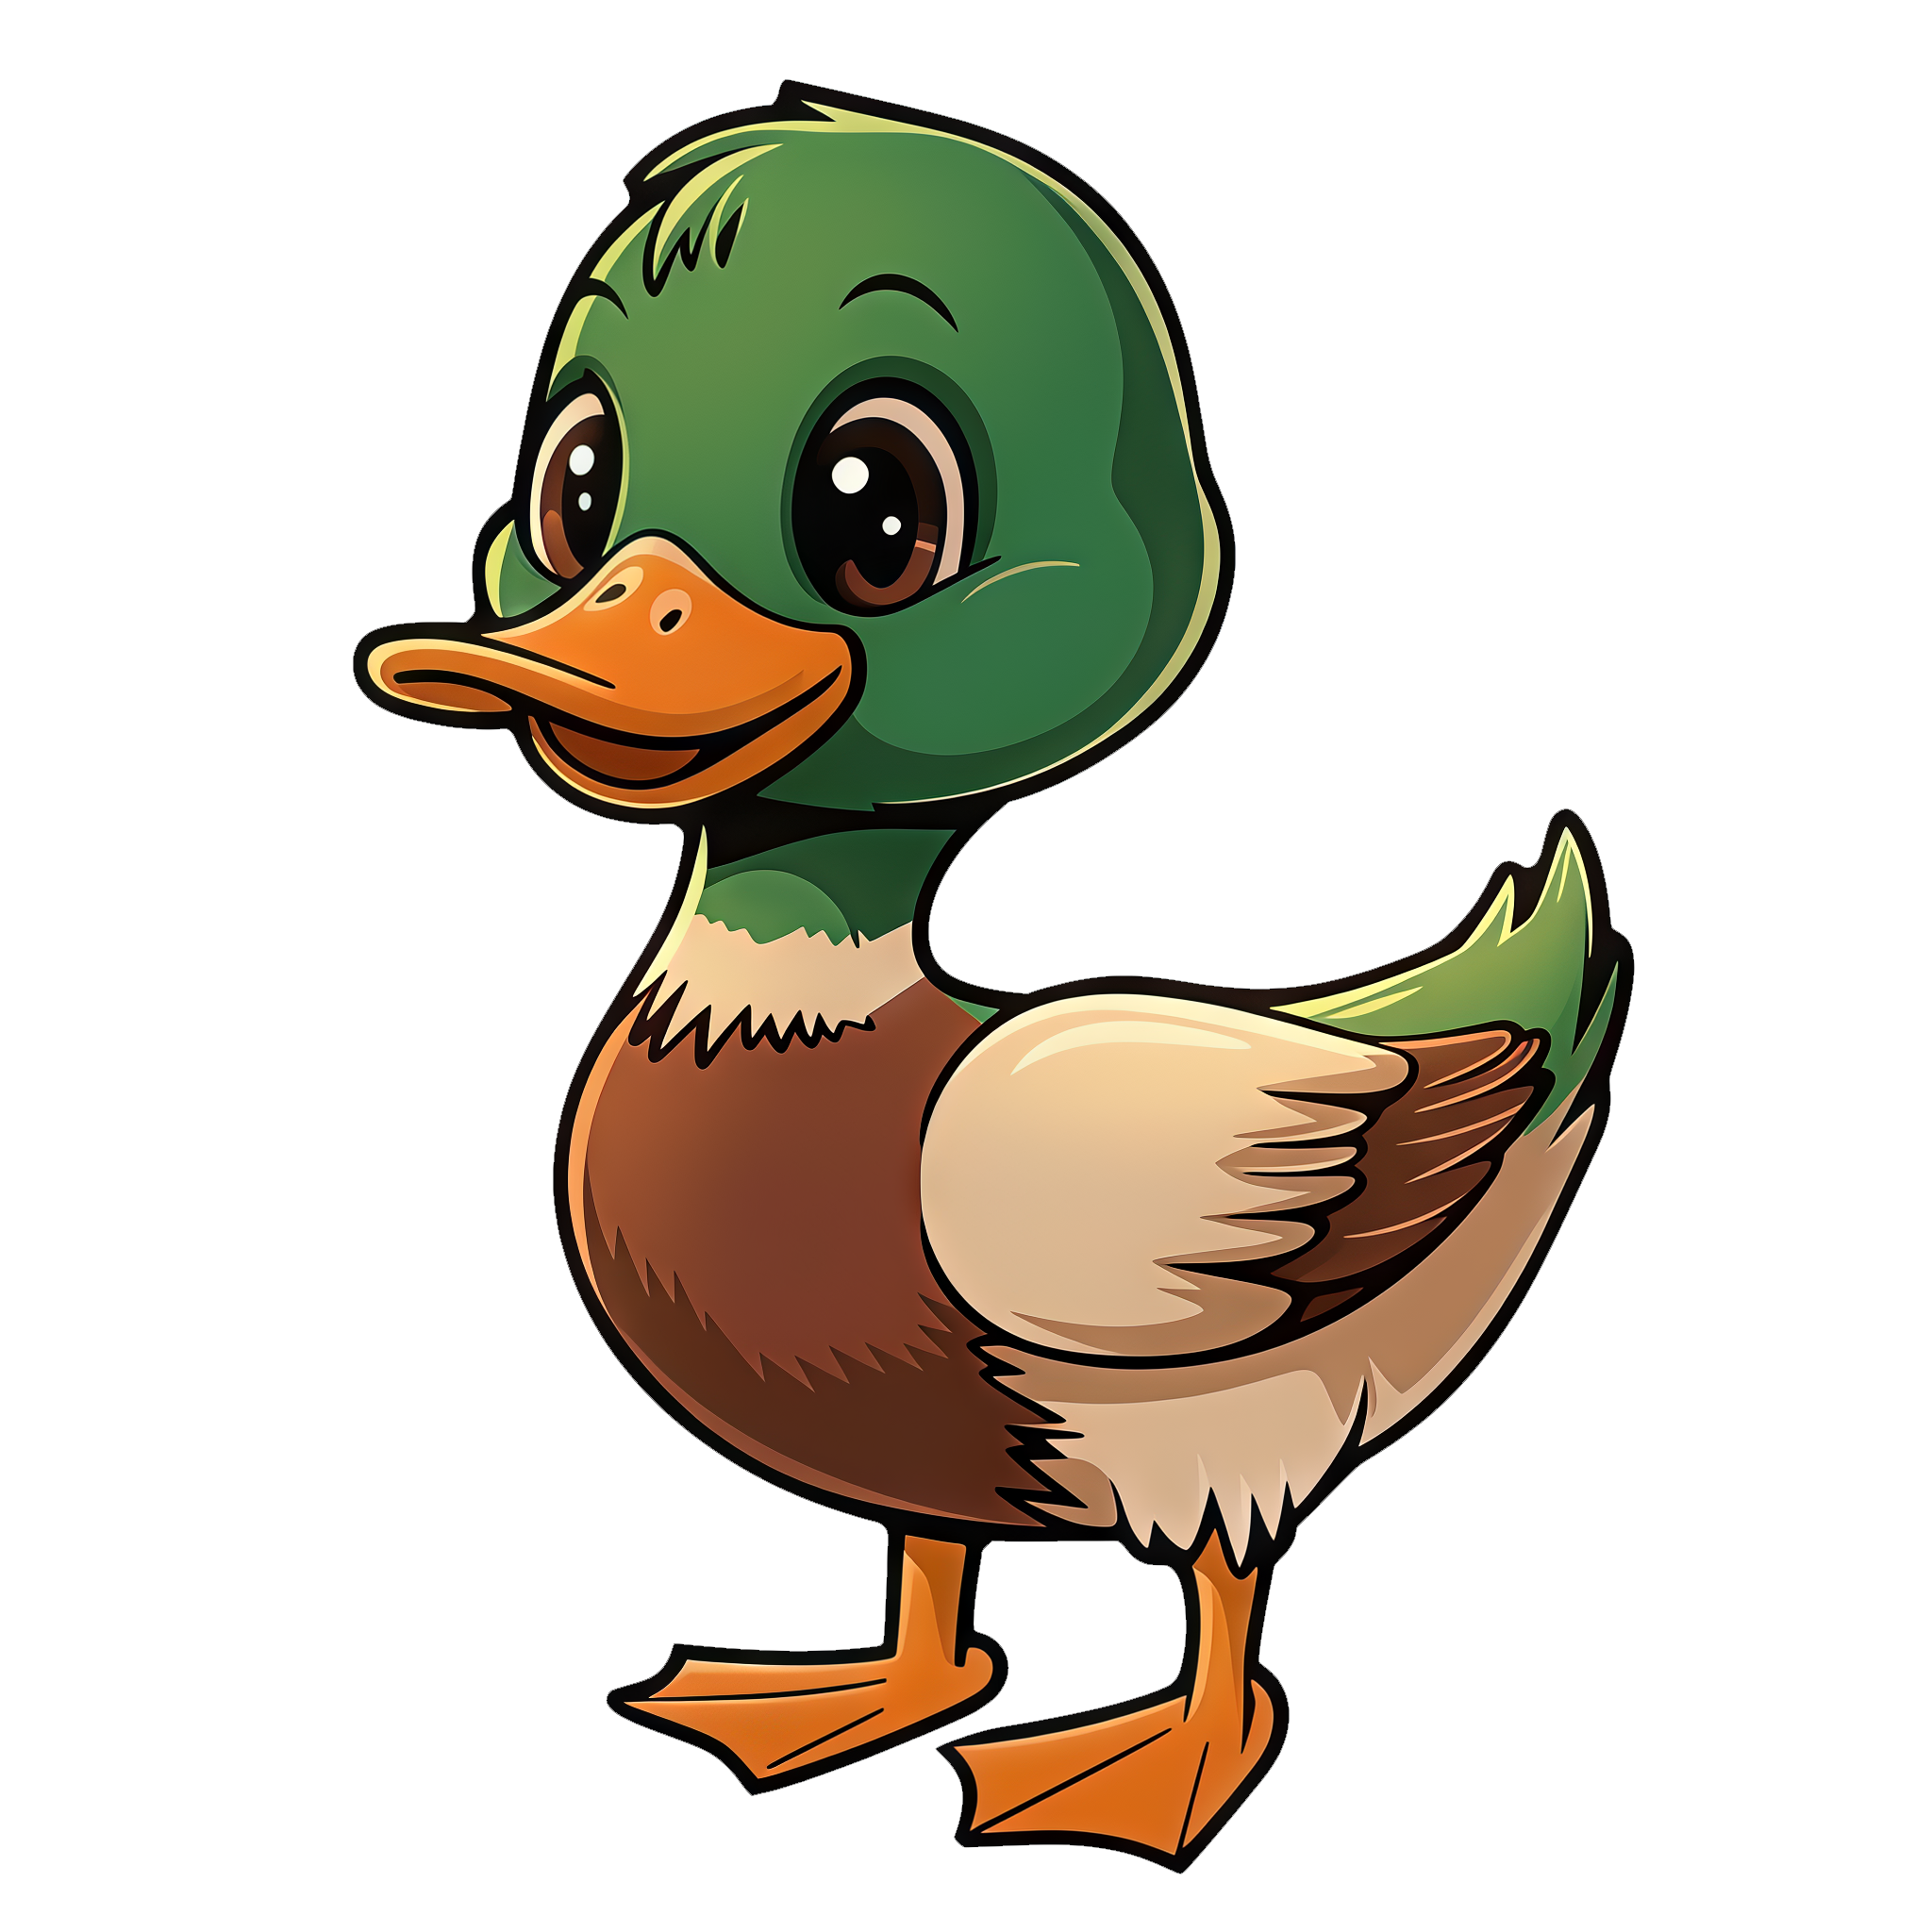
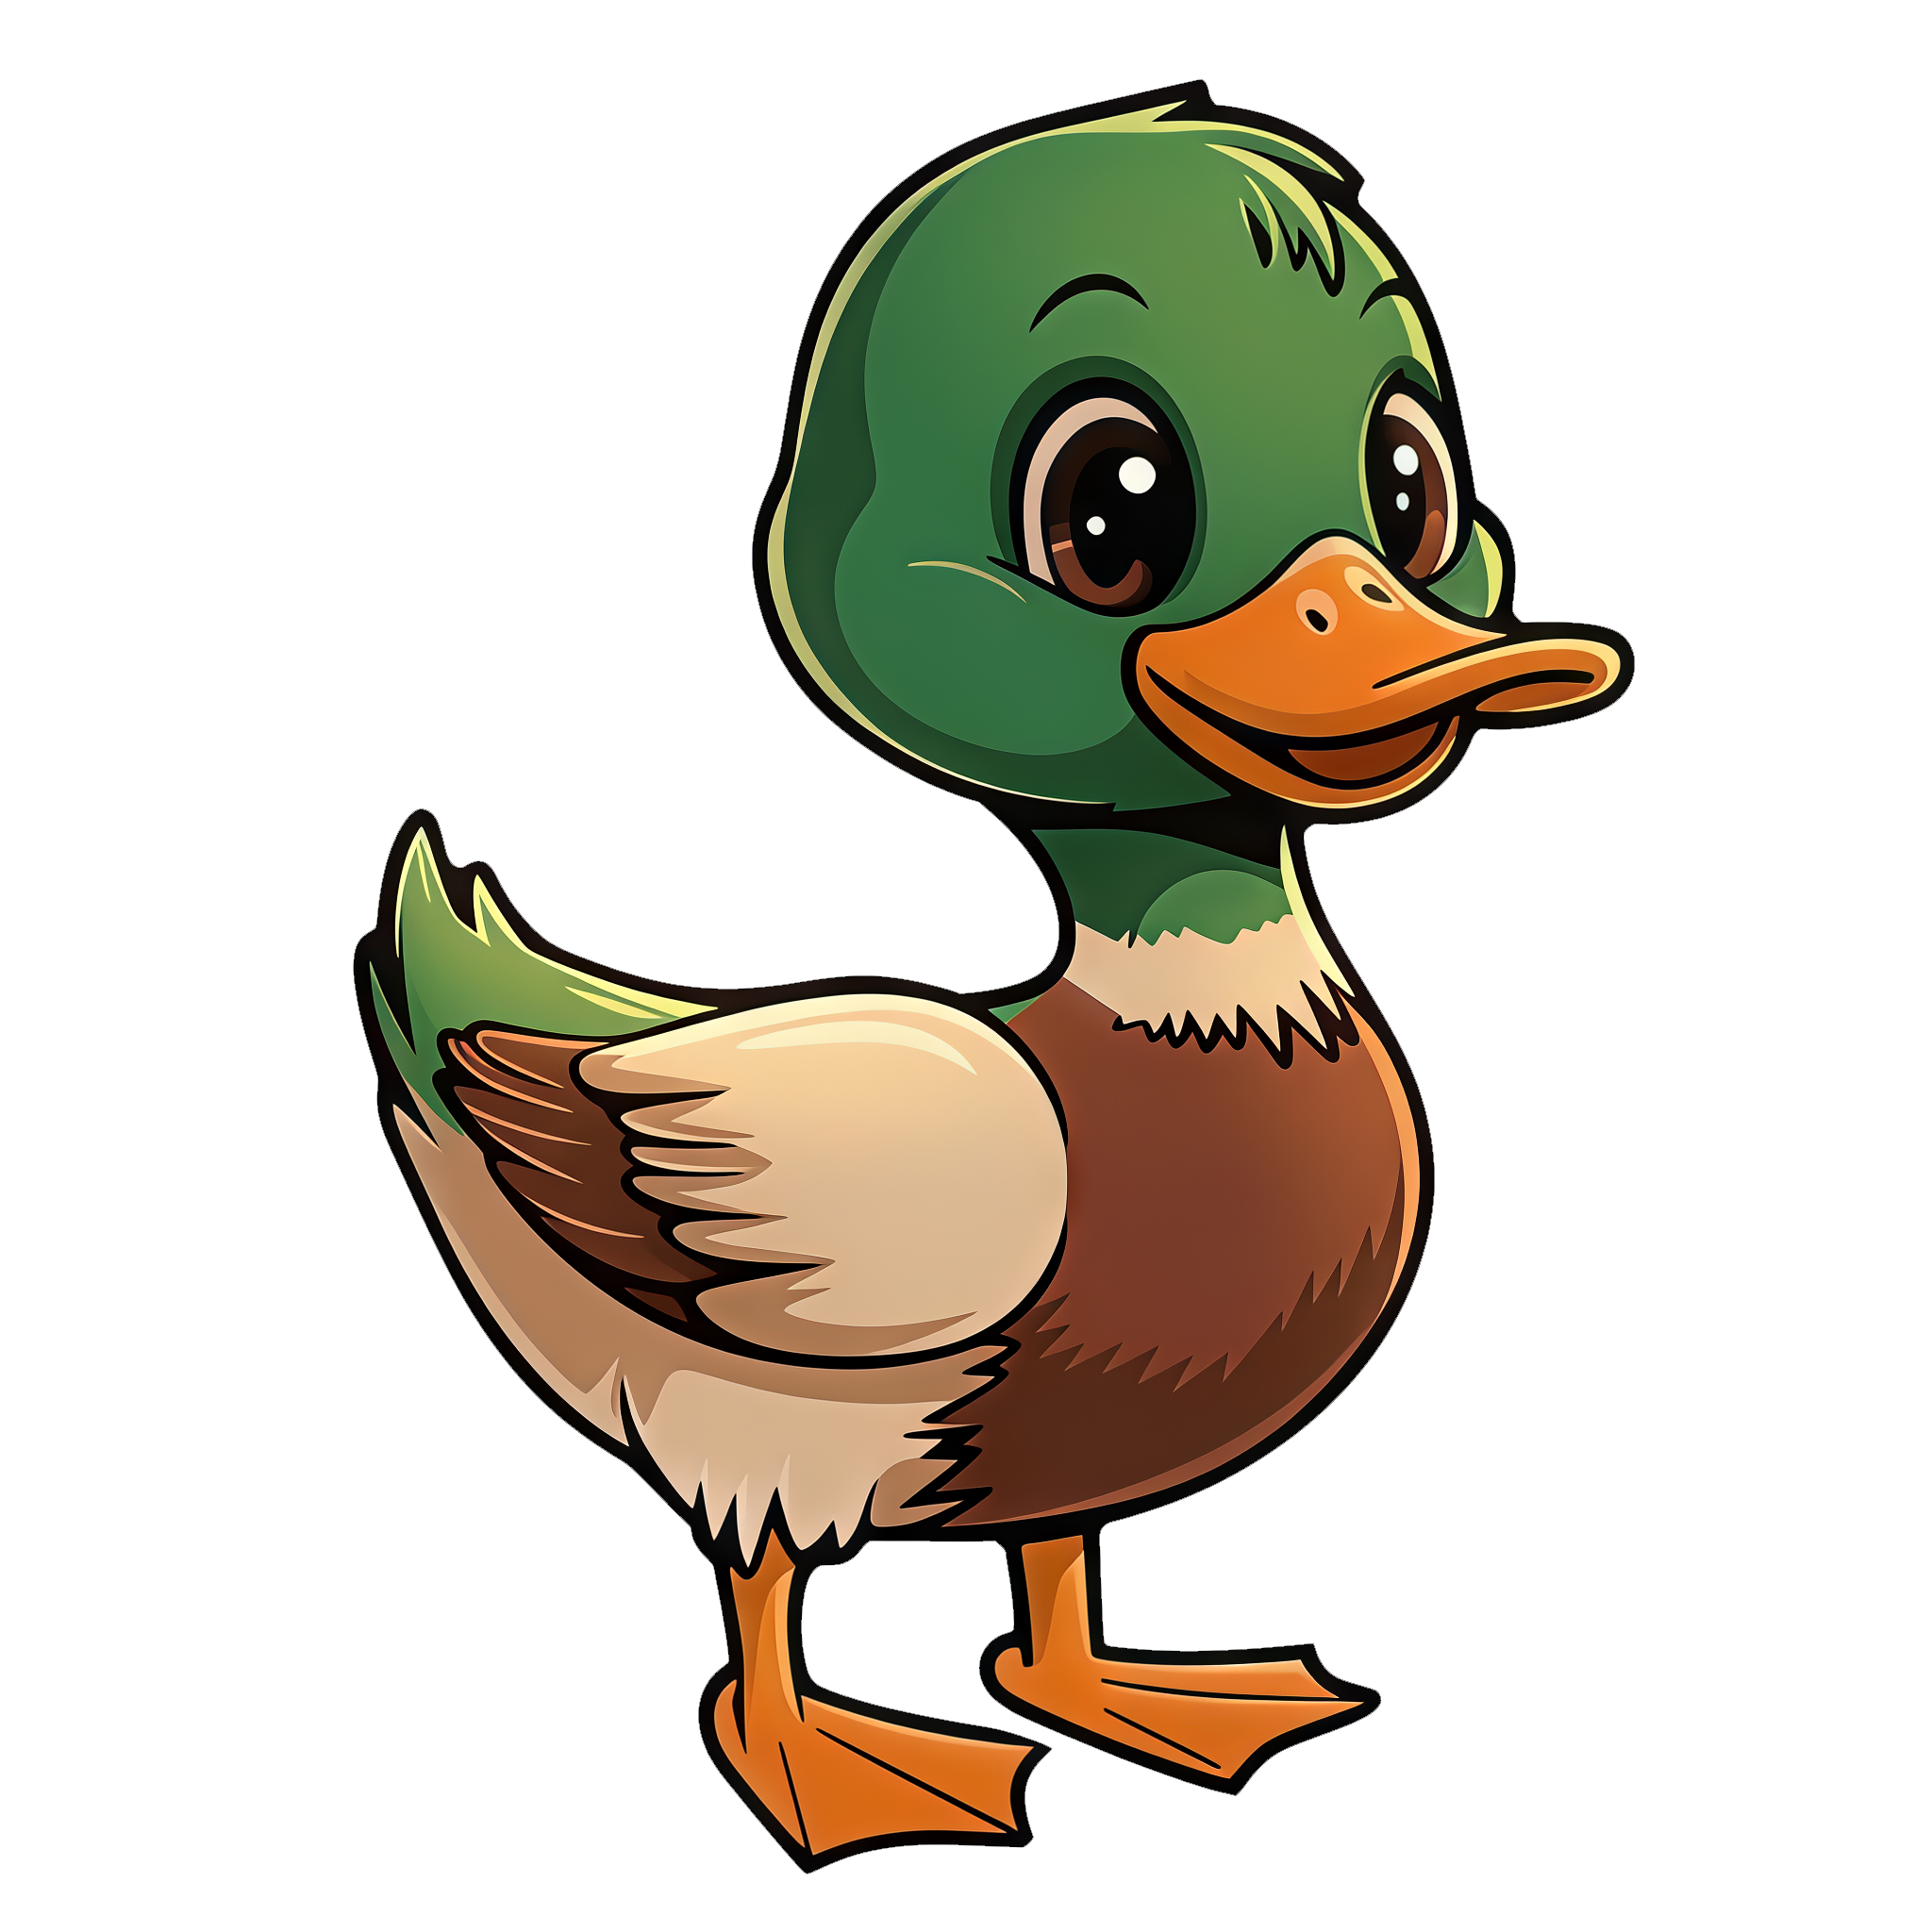
goldfish

diff --git a/zone_config.py b/zone_config.py
@@ -1,46 +1,148 @@
 # ─────────────────────────────────────────────
 # zone_config.py
-# Pool-uri de specii si naturi per zona.
-# Editeaza DOAR acest fisier pentru a modifica ce apare in fiecare zona.
+# Pool-uri de specii si naturi per zona, cu sistem de raritate.
+# Editeaza DOAR acest fisier.
 # ─────────────────────────────────────────────
+#
+# RARITATE — sanse de aparitie:
+#   common:    60%
+#   uncommon:  25%
+#   rare:      10%
+#   epic:       4%
+#   legendary:  1%
+#
+# Format entry: ('cheie', 'raritate')
+# ─────────────────────────────────────────────
+
+RARITY_WEIGHTS = {
+    'common':    60,
+    'uncommon':  25,
+    'rare':      10,
+    'epic':       4,
+    'legendary':  1,
+}
 
 ZONE_POOLS = {
 
     'arena': {
-        'species': ['dog', 'cat', 'blackcat', 'duck', 'fox', 'rhino'],
-        'natures': ['fire', 'water', 'nature', 'earth', 'storm', 'ice',
-                    'shadow', 'crystal', 'steel', 'light', 'dragon'],
+        'species': [
+            ('dog',      'common'),
+            ('cat',      'common'),
+            ('duck',     'common'),
+            ('blackcat', 'uncommon'),
+            ('fox',      'rare'),
+            ('rhino',    'epic'),
+        ],
+        'natures': [
+            ('nature',  'common'),
+            ('water',   'common'),
+            ('earth',   'common'),
+            ('fire',    'uncommon'),
+            ('storm',   'uncommon'),
+            ('ice',     'rare'),
+            ('steel',   'rare'),
+            ('light',   'epic'),
+            ('shadow',  'epic'),
+            ('crystal', 'epic'),
+            ('dragon',  'legendary'),
+        ],
     },
 
     'vanatoare': {
-        'species': ['cat', 'duck', 'fox'],
-        'natures': ['nature', 'water', 'earth', 'storm', 'ice'],
+        'species': [
+            ('cat',  'common'),
+            ('duck', 'common'),
+            ('fox',  'uncommon'),
+        ],
+        'natures': [
+            ('nature', 'common'),
+            ('water',  'common'),
+            ('earth',  'common'),
+            ('storm',  'uncommon'),
+            ('ice',    'rare'),
+        ],
     },
 
     'padure': {
-        'species': ['cat', 'duck'],
-        'natures': ['nature', 'water', 'earth'],
+        'species': [
+            ('cat',  'common'),
+            ('duck', 'common'),
+        ],
+        'natures': [
+            ('nature', 'common'),
+            ('water',  'common'),
+            ('earth',  'uncommon'),
+        ],
     },
 
     'paduremid': {
-        'species': ['cat', 'duck', 'fox'],
-        'natures': ['nature', 'water', 'earth', 'storm'],
+        'species': [
+            ('cat',  'common'),
+            ('duck', 'common'),
+            ('fox',  'uncommon'),
+        ],
+        'natures': [
+            ('nature', 'common'),
+            ('water',  'common'),
+            ('earth',  'common'),
+            ('storm',  'uncommon'),
+        ],
     },
 
     'paduredeep': {
-        'species': ['cat', 'duck', 'fox', 'blackcat'],
-        'natures': ['nature', 'water', 'earth', 'storm', 'shadow', 'ice'],
+        'species': [
+            ('cat',      'common'),
+            ('duck',     'common'),
+            ('fox',      'uncommon'),
+            ('blackcat', 'rare'),
+        ],
+        'natures': [
+            ('nature', 'common'),
+            ('water',  'common'),
+            ('earth',  'common'),
+            ('storm',  'uncommon'),
+            ('ice',    'rare'),
+            ('shadow', 'epic'),
+        ],
     },
 
 }
 
 # Fallback daca zona nu e definita
 DEFAULT_POOL = {
-    'species': ['dog', 'cat', 'blackcat', 'duck', 'fox', 'rhino'],
-    'natures': ['fire', 'water', 'nature', 'earth', 'storm', 'ice',
-                'shadow', 'crystal', 'steel', 'light', 'dragon'],
+    'species': [
+        ('dog',      'common'),
+        ('cat',      'common'),
+        ('duck',     'common'),
+        ('blackcat', 'uncommon'),
+        ('fox',      'rare'),
+        ('rhino',    'epic'),
+    ],
+    'natures': [
+        ('nature',  'common'),
+        ('water',   'common'),
+        ('earth',   'common'),
+        ('fire',    'uncommon'),
+        ('storm',   'uncommon'),
+        ('ice',     'rare'),
+        ('steel',   'rare'),
+        ('light',   'epic'),
+        ('shadow',  'epic'),
+        ('crystal', 'epic'),
+        ('dragon',  'legendary'),
+    ],
 }
 
 
 def get_zone_pool(zone: str) -> dict:
     return ZONE_POOLS.get(zone, DEFAULT_POOL)
+
+
+def weighted_choice(entries: list) -> str:
+    """
+    Alege random dintr-o lista de (cheie, raritate) folosind RARITY_WEIGHTS.
+    """
+    import random
+    keys    = [e[0] for e in entries]
+    weights = [RARITY_WEIGHTS.get(e[1], 60) for e in entries]
+    return random.choices(keys, weights=weights, k=1)[0]

diff --git a/cogs/petgame_config.py b/cogs/petgame_config.py
@@ -466,4 +466,31 @@ SPECIES = {
             },
         },
     },
+
+    'goldfish': {
+        'starter': False,
+        'name': 'Peștișor', 'emoji': '🐟', 'button_label': '🐟 Peștișor',
+        'codes': {1: 'GOLD-001', 2: 'GOLD-002', 3: 'GOLD-003'},
+        'available_natures': ['water', 'dragon'],
+        'entries': {
+            1: {
+                'code': 'GOLD-001',
+                'name': 'Aurel',
+                'description': 'Un peștișor auriu nevinovat, înoată fericit în bolul său. Nimeni nu bănuiește ce putere doarme în el.',
+                'lore': 'Aurel este o enigmă printre companioni. La prima vedere e un simplu peștișor auriu — ochii mari, înotătoare delicate, mișcări line ca apa liniștită.\n\nSe spune că peștișorii de aur sunt urmașii dragonilor marini primordiali care au ales să se retragă în adâncuri, luând forma cea mai mică și umilă pentru a nu fi vânați.\n\nCei care îl aleg ca starter sunt considerați fie nebuni, fie înzestrați cu o intuiție ieșită din comun. Aurel nu impresionează — deocamdată.',
+            },
+            2: {
+                'code': 'GOLD-002',
+                'name': 'Koishar',
+                'description': 'Transformarea a început. Solzii aurului s-au întărit, înotătoarele s-au extins, iar în ochi arde o flacără albastră.',
+                'lore': 'Koishar marchează trezirea — momentul în care peștișorul banal începe să-și amintească ce a fost cândva.\n\nSolzii săi reflectă lumina în pattern-uri care seamănă cu scrierile dragonice vechi. Magicienii curții au confirmat că aceste pattern-uri nu sunt decorative — sunt rune vii.\n\nKoishar poate supraviețui în afara apei pentru perioade scurte, iar valurile de energie pe care le emite pot fi simțite de companioanele din jur. Este asexuat — forma sa transcende orice categorie.',
+            },
+            3: {
+                'code': 'GOLD-003',
+                'name': 'Dracaurul',
+                'description': 'Transformarea completă. Dragonul marin primordial s-a trezit — solzi de aur și abis, puterea apei și a dragonului unite.',
+                'lore': 'Dracaurul este una dintre cele mai rare și mai temute creaturi din Regnum Dacorum. Forma sa finală combină grația peștilor cu devastarea dragonilor marini.\n\nSe spune că apariția unui Dracaurul anunță fie o mare furtună pe mare, fie nașterea unui nou erou în regat. Nu există cale de mijloc.\n\nZamolxe ar fi spus că Dracaurul nu aparține nici lumii de sus, nici celei de jos — el este puntea dintre Apă și Dragon, dintre origine și destin. Cei care îl dețin poartă o responsabilitate pe care puțini o înțeleg.',
+            },
+        },
+    },
 }

diff --git a/modules/battle.py b/modules/battle.py
@@ -15,27 +15,28 @@ from moves_config import get_moveset, get_move
 # GENERARE NPC INAMIC
 # ─────────────────────────────────────────────
 
-SPECIES_LIST   = ['dog', 'cat', 'blackcat', 'duck', 'fox', 'rhino']
+SPECIES_LIST   = ['dog', 'cat', 'blackcat', 'duck', 'fox', 'rhino', 'goldfish']
 NATURES_LIST   = ['fire', 'water', 'nature', 'earth', 'storm', 'ice', 'shadow', 'crystal', 'steel', 'light', 'dragon']
-SPECIES_NAMES  = {'dog': 'Câine', 'cat': 'Pisică', 'blackcat': 'Pisică Neagră', 'duck': 'Rață', 'fox': 'Vulpe', 'rhino': 'Rinocer'}
+SPECIES_NAMES  = {'dog': 'Câine', 'cat': 'Pisică', 'blackcat': 'Pisică Neagră', 'duck': 'Rață', 'fox': 'Vulpe', 'rhino': 'Rinocer', 'goldfish': 'Peștișor'}
 from npc_names_config import get_npc_name
 
 
 def generate_npc(player_level: int, zone: str = 'arena') -> dict:
     """Genereaza un NPC random cu nivel apropriat (+-3 fata de player), filtrat dupa zona."""
     from cogs.petgame_config import SPECIES as SPECIES_CONFIG
-    from zone_config import get_zone_pool
+    from zone_config import get_zone_pool, weighted_choice
 
     pool    = get_zone_pool(zone)
-    species_pool = pool['species']
-    natures_pool = pool['natures']
+    species = weighted_choice(pool['species'])
+
+    # Intersecteaza available_natures ale speciei cu naturile din pool
+    available_natures = SPECIES_CONFIG.get(species, {}).get('available_natures', [e[0] for e in pool['natures']])
+    pool_natures = [(key, rar) for key, rar in pool['natures'] if key in available_natures]
+    if not pool_natures:
+        pool_natures = pool['natures']
+    nature = weighted_choice(pool_natures)
 
     level   = max(1, player_level + random.randint(-3, 3))
-    species = random.choice(species_pool)
-    # Intersecteaza available_natures ale speciei cu pool-ul zonei
-    available = SPECIES_CONFIG.get(species, {}).get('available_natures', natures_pool)
-    available = [n for n in available if n in natures_pool] or natures_pool
-    nature  = random.choice(available)
     form    = get_form(level)
     stats   = get_stats_at_level(species, nature, level, form)
     moveset = get_moveset(species, nature, level)

diff --git a/cogs/petgame_stats.py b/cogs/petgame_stats.py
@@ -77,6 +77,16 @@ BASE_STATS: dict[str, dict[str, int]] = {
         'control':  30,
         'reflection': 20,
     },
+    'goldfish': {
+        'hp':       40,
+        'attack':   55,
+        'defense':  40,
+        'speed':    75,
+        'evasion':  55,
+        'healing':  35,
+        'control':  45,
+        'reflection': 30,
+    },
 }
 
 
@@ -145,6 +155,16 @@ STAT_GROWTH: dict[str, dict[str, float]] = {
         'healing':    0.5,
         'control':    0.7,
         'reflection': 0.4,
+    },
+    'goldfish': {
+        'hp':         2.0,
+        'attack':     1.8,
+        'defense':    1.0,
+        'speed':      1.8,
+        'evasion':    1.2,
+        'healing':    0.8,
+        'control':    1.0,
+        'reflection': 0.8,
     },
 }
 

diff --git a/modules/pets.py b/modules/pets.py
@@ -52,6 +52,8 @@ def get_image_url(species: str, form: int, state: str, gender: str = 'male') -> 
     base = f"{STATIC_BASE}/00transparent/{species}"
     if species in ('duck', 'fox', 'rhino') and form == 1:
         return f"{base}/Stage{form}-{state}-Form.png"
+    if species == 'goldfish':
+        return f"{base}/Stage{form}-{state}-Form.png"
     if species in ('blackcat', 'dog', 'duck', 'fox', 'rhino'):
         gender_suffix = 'Male' if gender == 'male' else 'Female'
         return f"{base}/Stage{form}-{state}-Form-{gender_suffix}.png"

diff --git a/modules/companicon.py b/modules/companicon.py
@@ -13,6 +13,7 @@ GENDERED_SPECIES = {
     'duck':     [2, 3],
     'fox':      [2, 3],
     'rhino':    [2, 3],
+    # goldfish — asexuat, nicio forma nu are gen
 }
 
 